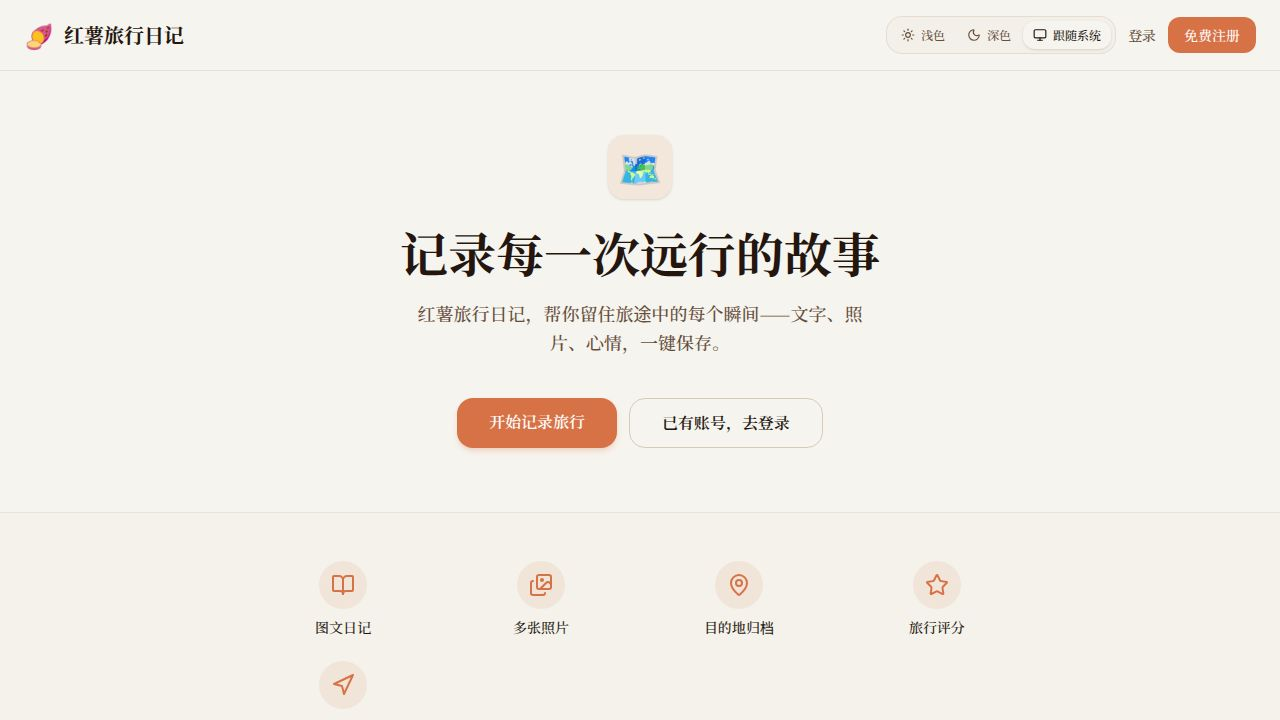
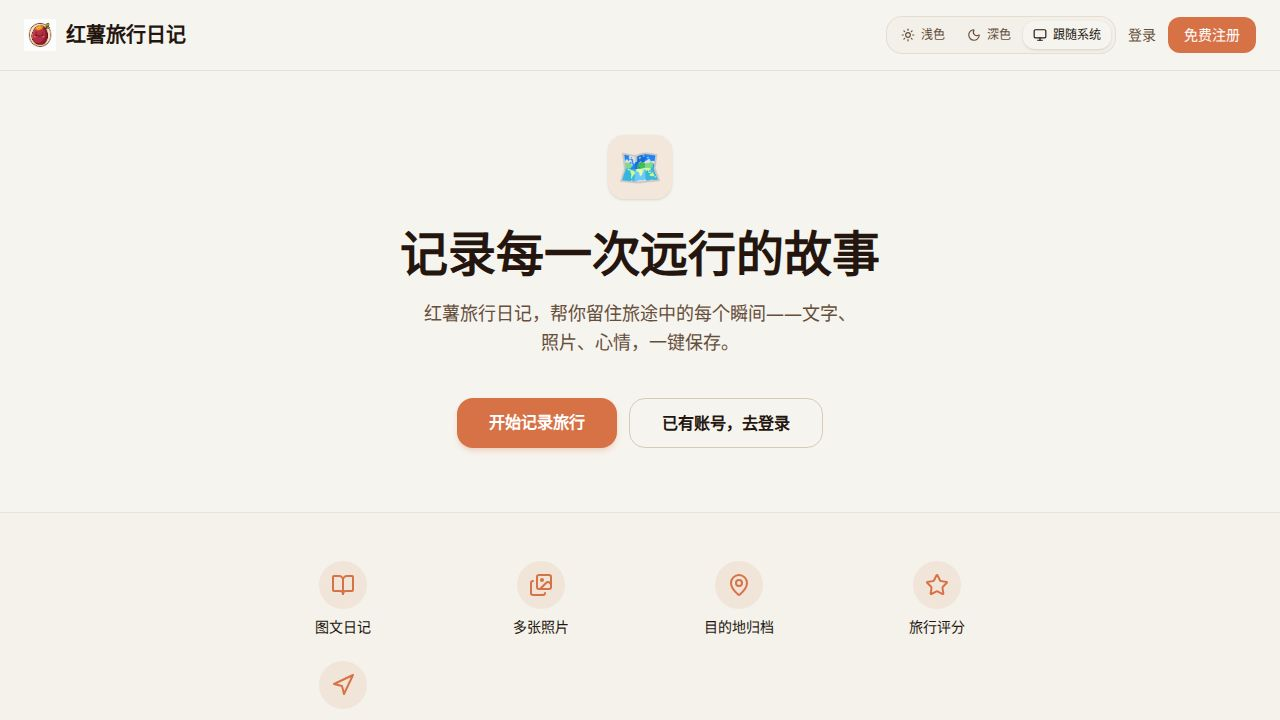
Add traveler count to /me preferences (task-35)
The /plan page already had a travelers field and persisted it to localStorage,
and the API + DB schema already had travelersCount in userPrefsTable. What was
missing was the UI control in the /me preferences section.

Changes:
- artifacts/travel-diary/src/pages/me.tsx:
  - Added `travelers: number` to the UserPrefs interface
  - Updated fetchPrefs() to read travelers from the API response (defaults to 2)
  - Updated the empty-prefs fallback to include travelers: 2
  - Updated handleClearPrefs() to reset travelers to 2
  - Updated updatePrefs() default spread to include travelers: 2
  - Added a traveler-count control in the 出行偏好 section: a range slider
    (matching plan.tsx) flanked by − / ＋ stepper buttons, showing the current
    count as "X 人" in the label

No schema or API changes needed — userPrefsTable already had travelersCount
and the prefs route already handled the travelers ↔ travelersCount mapping.

The plan page already reads saved travelers from the server prefs on sign-in
and pre-fills the field, so the full round-trip (set on /me → synced to DB →
pre-filled on /plan) works end-to-end with these frontend-only changes.

Replit-Task-Id: 90795b0a-cbe7-4acf-b25b-31604c7a3cd7

diff --git a/artifacts/travel-diary/src/pages/me.tsx b/artifacts/travel-diary/src/pages/me.tsx
@@ -47,6 +47,7 @@ interface UserPrefs {
   specialNeeds: string[];
   fromCity: string;
   travelStyle: string;
+  travelers: number;
 }
 
 interface MyProfile {
@@ -265,9 +266,10 @@ export default function Me() {
             specialNeeds: Array.isArray(data.specialNeeds) ? data.specialNeeds : [],
             fromCity: data.fromCity ?? "",
             travelStyle: data.travelStyle ?? "",
+            travelers: typeof data.travelers === "number" && data.travelers >= 1 ? data.travelers : 2,
           });
         } else {
-          setPrefs({ travelMode: "", budget: "", specialNeeds: [], fromCity: "", travelStyle: "" });
+          setPrefs({ travelMode: "", budget: "", specialNeeds: [], fromCity: "", travelStyle: "", travelers: 2 });
         }
       }
     } finally {
@@ -298,14 +300,14 @@ export default function Me() {
       saveDebounceRef.current = null;
     }
     pendingSaveRef.current = null;
-    const cleared: UserPrefs = { travelMode: "", budget: "", specialNeeds: [], fromCity: "", travelStyle: "" };
+    const cleared: UserPrefs = { travelMode: "", budget: "", specialNeeds: [], fromCity: "", travelStyle: "", travelers: 2 };
     setPrefs(cleared);
     await savePrefs(cleared);
   };
 
   const updatePrefs = (patch: Partial<UserPrefs>) => {
     setPrefs((prev) => {
-      const next = { ...(prev ?? { travelMode: "", budget: "", specialNeeds: [], fromCity: "", travelStyle: "" }), ...patch };
+      const next = { ...(prev ?? { travelMode: "", budget: "", specialNeeds: [], fromCity: "", travelStyle: "", travelers: 2 }), ...patch };
       if (saveDebounceRef.current) clearTimeout(saveDebounceRef.current);
       pendingSaveRef.current = next;
       saveDebounceRef.current = setTimeout(() => {
@@ -791,6 +793,36 @@ export default function Me() {
                     placeholder="例如：上海"
                     className="w-full rounded-lg border border-border/60 bg-background text-sm px-3 py-1.5 focus:outline-none focus:ring-2 focus:ring-primary/30 placeholder:text-muted-foreground/50"
                   />
+                </div>
+                {/* Traveler count */}
+                <div>
+                  <label className="text-xs font-medium text-muted-foreground mb-1.5 block">
+                    👥 默认出行人数：<span className="font-semibold text-foreground">{prefs?.travelers ?? 2} 人</span>
+                  </label>
+                  <div className="flex items-center gap-3">
+                    <button
+                      onClick={() => updatePrefs({ travelers: Math.max(1, (prefs?.travelers ?? 2) - 1) })}
+                      disabled={(prefs?.travelers ?? 2) <= 1}
+                      className="w-7 h-7 rounded-full border border-border/60 flex items-center justify-center text-sm font-bold text-muted-foreground hover:border-primary/40 hover:text-primary transition-colors disabled:opacity-30 disabled:cursor-not-allowed"
+                    >
+                      −
+                    </button>
+                    <input
+                      type="range"
+                      min={1}
+                      max={10}
+                      value={prefs?.travelers ?? 2}
+                      onChange={(e) => updatePrefs({ travelers: Number(e.target.value) })}
+                      className="flex-1 accent-primary"
+                    />
+                    <button
+                      onClick={() => updatePrefs({ travelers: Math.min(10, (prefs?.travelers ?? 2) + 1) })}
+                      disabled={(prefs?.travelers ?? 2) >= 10}
+                      className="w-7 h-7 rounded-full border border-border/60 flex items-center justify-center text-sm font-bold text-muted-foreground hover:border-primary/40 hover:text-primary transition-colors disabled:opacity-30 disabled:cursor-not-allowed"
+                    >
+                      ＋
+                    </button>
+                  </div>
                 </div>
                 {/* Travel mode */}
                 <div>